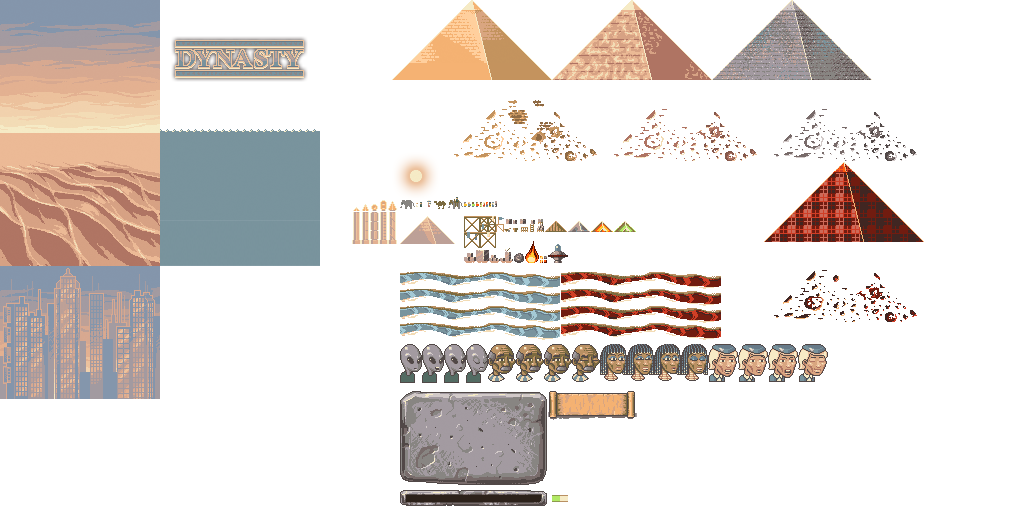
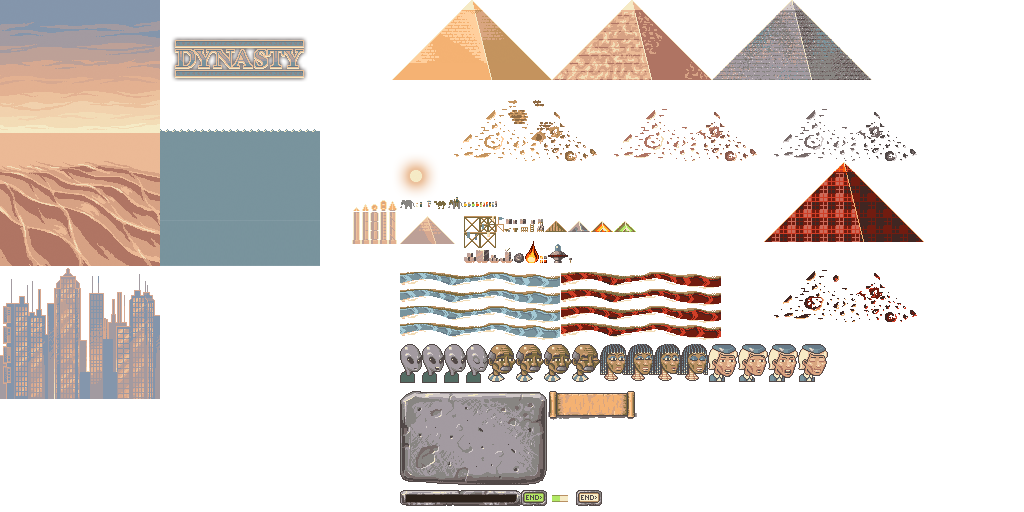
Player must explicitly progress the game now.

Changed region(s): [[0.0, 0.5, 0.1562, 0.6875], [0.5625, 0.9375, 0.5938, 1.0], [0.5, 0.9375, 0.5312, 1.0]]

diff --git a/core/src/net/mostlyoriginal/game/system/render/ProgressRenderSystem.java b/core/src/net/mostlyoriginal/game/system/render/ProgressRenderSystem.java
@@ -2,24 +2,35 @@ package net.mostlyoriginal.game.system.render;
 
 import com.artemis.Aspect;
 import com.artemis.ComponentMapper;
+import com.artemis.Entity;
 import com.artemis.annotations.Wire;
 import com.badlogic.gdx.graphics.Color;
 import com.badlogic.gdx.graphics.g2d.BitmapFont;
 import com.badlogic.gdx.graphics.g2d.GlyphLayout;
 import com.badlogic.gdx.graphics.g2d.SpriteBatch;
 import com.badlogic.gdx.graphics.g2d.TextureRegion;
+import com.badlogic.gdx.math.Interpolation;
 import com.badlogic.gdx.math.MathUtils;
+import net.mostlyoriginal.api.component.basic.Bounds;
 import net.mostlyoriginal.api.component.basic.Pos;
 import net.mostlyoriginal.api.component.graphics.Invisible;
 import net.mostlyoriginal.api.component.graphics.Tint;
 import net.mostlyoriginal.api.manager.AbstractAssetSystem;
+import net.mostlyoriginal.api.operation.OperationFactory;
+import net.mostlyoriginal.api.plugin.extendedcomponentmapper.M;
 import net.mostlyoriginal.api.system.camera.CameraSystem;
 import net.mostlyoriginal.api.system.delegate.DeferredEntityProcessingSystem;
 import net.mostlyoriginal.api.system.delegate.EntityProcessPrincipal;
+import net.mostlyoriginal.api.util.DynastyEntityBuilder;
 import net.mostlyoriginal.game.G;
-import net.mostlyoriginal.game.component.ui.Bar;
-import net.mostlyoriginal.game.component.ui.Progress;
+import net.mostlyoriginal.game.component.ui.*;
+import net.mostlyoriginal.game.manager.AssetSystem;
 import net.mostlyoriginal.game.manager.FontManager;
+import net.mostlyoriginal.game.system.logic.ProgressAlgorithmSystem;
+
+import static net.mostlyoriginal.game.system.dilemma.DilemmaSystem.COLOR_RAW_BRIGHT;
+import static net.mostlyoriginal.game.system.dilemma.DilemmaSystem.COLOR_RAW_DIMMED;
+import static net.mostlyoriginal.game.system.dilemma.DilemmaSystem.TEXT_ZOOM;
 
 /**
  * Render and progress animations.
@@ -41,11 +52,55 @@ public class ProgressRenderSystem extends DeferredEntityProcessingSystem {
     private SpriteBatch batch;
     private GlyphLayout glyphLayout;
     private float age;
+    private ProgressAlgorithmSystem progressAlgorithmSystem;
+    private Entity progressButton;
+    private M<Invisible> mInvisible;
+    private AssetSystem assetSystem;
+    private Entity buildLabel;
+
+
+    public void createLabel(int x, int y, String color, String text, String shadowTextColor, int maxWidth) {
+        Label label = new Label(text, TEXT_ZOOM);
+        label.shadowColor = new Tint(shadowTextColor);
+        label.maxWidth = maxWidth;
+        int insertDistanceY =AssetSystem.SLAB_HEIGHT*G.ZOOM;
+        DynastyEntityBuilder builder = new DynastyEntityBuilder(world)
+                .with(label)
+                .pos(x, y)
+                .renderable(3010)
+                .scale(TEXT_ZOOM)
+                .tint(color);
+
+        buildLabel = builder
+                .build();
+    }
 
     @Override
     protected void initialize() {
         super.initialize();
         glyphLayout = new GlyphLayout();
+
+        createLabel(12 * G.ZOOM, 4 * G.ZOOM + 18 * G.ZOOM, "FFFFFFFF", "Build progress", "000000FF", 4000);
+        progressButton = new DynastyEntityBuilder(world)
+                .with(Tint.class).with(
+                new Bounds(0, 0, 26*G.ZOOM, 16*G.ZOOM),
+                new Clickable(),
+                new Button("btn-turn-up", "btn-turn-hover", "btn-turn-down", new ButtonListener() {
+                    @Override
+                    public void run() {
+                        assetSystem.playRandomHammer();
+                        assetSystem.playRandomHammer();
+                        progressAlgorithmSystem.progress();
+                    }
+                })
+        )
+                .group("progress")
+                .anim("btn-test-up")
+                .renderable(920)
+                .pos(7 * G.ZOOM + AssetSystem.PROGRESS_BAR_BACKGROUND_WIDTH * G.ZOOM, 4 * G.ZOOM)
+                .scale(G.ZOOM)
+                .build();
+
     }
 
     public ProgressRenderSystem(EntityProcessPrincipal principal) {
@@ -75,6 +130,19 @@ public class ProgressRenderSystem extends DeferredEntityProcessingSystem {
 
         age += world.delta;
 
+        if ( progressAlgorithmSystem.readyToProgress )
+        {
+            mInvisible.remove(progressButton);
+            mInvisible.remove(buildLabel);
+            renderBars(entity);
+        } else {
+            mInvisible.create(progressButton);
+            mInvisible.create(buildLabel);
+        }
+
+    }
+
+    private void renderBars(int entity) {
         final Progress progress = mProgress.get(entity);
         final Pos pos = pm.get(entity);
 

diff --git a/core/src/net/mostlyoriginal/game/system/logic/ProgressAlgorithmSystem.java b/core/src/net/mostlyoriginal/game/system/logic/ProgressAlgorithmSystem.java
@@ -21,6 +21,7 @@ public class ProgressAlgorithmSystem extends IteratingSystem {
     protected M<Stockpile> mStockpile;
     protected RiverDioramaSystem riverDioramaSystem;
 
+    public boolean readyToProgress = false;
     public int projectedIncrease = 0;
     private boolean increaseAlert = false;
 
@@ -30,13 +31,16 @@ public class ProgressAlgorithmSystem extends IteratingSystem {
 
     public void progress()
     {
-        processSystem();
+        if ( readyToProgress ) {
+            readyToProgress=false;
+            processSystem();
 
-        System.out.println("Completion increase by " +(projectedIncrease* COMPLETION_SCALE));
-        System.out.println("Alert? " +increaseAlert);
+            System.out.println("Completion increase by " + (projectedIncrease * COMPLETION_SCALE));
+            System.out.println("Alert? " + increaseAlert);
 
-        stockpileSystem.alter(StockpileSystem.Resource.COMPLETION_PERCENTILE, projectedIncrease);
-        stockpileSystem.alter(StockpileSystem.Resource.AGE, 1);
+            stockpileSystem.alter(StockpileSystem.Resource.COMPLETION_PERCENTILE, projectedIncrease);
+            stockpileSystem.alter(StockpileSystem.Resource.AGE, 1);
+        }
     }
 
     // increase cost based on pyramid size.
@@ -78,6 +82,11 @@ public class ProgressAlgorithmSystem extends IteratingSystem {
 
         projectedIncrease = getProjectedIncrease();
         increaseAlert = getRiverFactor() < 1f; // anything wrong?
+
+        if ( readyToProgress )
+        {
+
+        }
     }
 
     public float getProgressPercentile() {

diff --git a/core/src/net/mostlyoriginal/game/manager/AssetSystem.java b/core/src/net/mostlyoriginal/game/manager/AssetSystem.java
@@ -44,6 +44,7 @@ public class AssetSystem extends AbstractAssetSystem {
     public static final int SLAB_WIDTH = 147;
     public static final int LOGO_WIDTH = 139;
     public static final int LOGO_HEIGHT = 47;
+    public static final int PROGRESS_BAR_BACKGROUND_WIDTH = 121;
     public static int FIREBALL_WIDTH = 14;
     public static int FIREBALL_HEIGHT = 22;
     private static Music music;
@@ -98,7 +99,9 @@ public class AssetSystem extends AbstractAssetSystem {
         add("OBELISK BASE 4", 379, 212 - 11, OBELISK_WIDTH, OBELISK_HEIGHT, 1);
         add("OBELISK BASE 5", 388, 212 - 11, OBELISK_WIDTH, OBELISK_HEIGHT, 1);
 
-        add("PROGRESS BAR BACKGROUND", 400, 490, 147, 16, 1);
+        //PROGRESS BAR BACKGROUND: x:400, y:490, width:121, height:16
+
+        add("PROGRESS BAR BACKGROUND", 400, 490, PROGRESS_BAR_BACKGROUND_WIDTH, 16, 1);
         add("PROGRESS BAR", 552, 495, 8, 7, 1);
         add("PROGRESS BAR PLANNED", 560, 495, 8, 7, 1);
 
@@ -145,6 +148,13 @@ public class AssetSystem extends AbstractAssetSystem {
         add("FIRE PARTICLE 2", 540, 260, 3, 3,1);
         add("FIRE PARTICLE 3", 544, 256, 3, 3,1);
         add("FIRE PARTICLE 4", 544, 260, 3, 3,1);
+
+
+        add("HAMMER", 569, 258, 3, 5,1);
+
+        add("btn-turn-up", 521, 490, 26, 16,1);
+        add("btn-turn-hover", 576, 490, 26, 16,1);
+        add("btn-turn-down", 521, 490, 26, 16,1);
 
 //        FIRE PARTICLE 1: x:540, y:256, width:3, height:3
 //        FIRE PARTICLE 2: x:540, y:260, width:3, height:3

diff --git a/core/src/net/mostlyoriginal/game/system/dilemma/DilemmaSystem.java b/core/src/net/mostlyoriginal/game/system/dilemma/DilemmaSystem.java
@@ -278,7 +278,7 @@ public class DilemmaSystem extends EntityProcessingSystem {
     protected void begin() {
         super.begin();
 
-        if ( !dilemmaActive ) {
+        if ( !dilemmaActive && !progressAlgorithmSystem.readyToProgress ) {
             noDisciplineCooldown -= world.delta;
             if (noDisciplineCooldown <= 0) {
                 noDisciplineCooldown = DISCIPLINE_FOLLOWUP_WAIT_TIME;
@@ -437,7 +437,7 @@ public class DilemmaSystem extends EntityProcessingSystem {
                 stockpileSystem.alter(StockpileSystem.Resource.COMPLETION, 1);
                 break;
             case "PROGRESS":
-                progressAlgorithmSystem.progress();
+                progressAlgorithmSystem.readyToProgress=true;
                 break;
             case "+WORSHIP":
                 stockpileSystem.alter(StockpileSystem.Resource.WORSHIP, 1);

diff --git a/core/src/net/mostlyoriginal/game/system/ui/ProgressUISystem.java b/core/src/net/mostlyoriginal/game/system/ui/ProgressUISystem.java
@@ -42,7 +42,7 @@ public class ProgressUISystem extends IteratingSystem {
         Entity entity = new DynastyEntityBuilder(world)
                 .with(Pos.class, Renderable.class)
                 .with(new Progress())
-                .renderable(1005)
+                .renderable(3005)
                 .scale(G.ZOOM)
                 .build();
         return entity;
